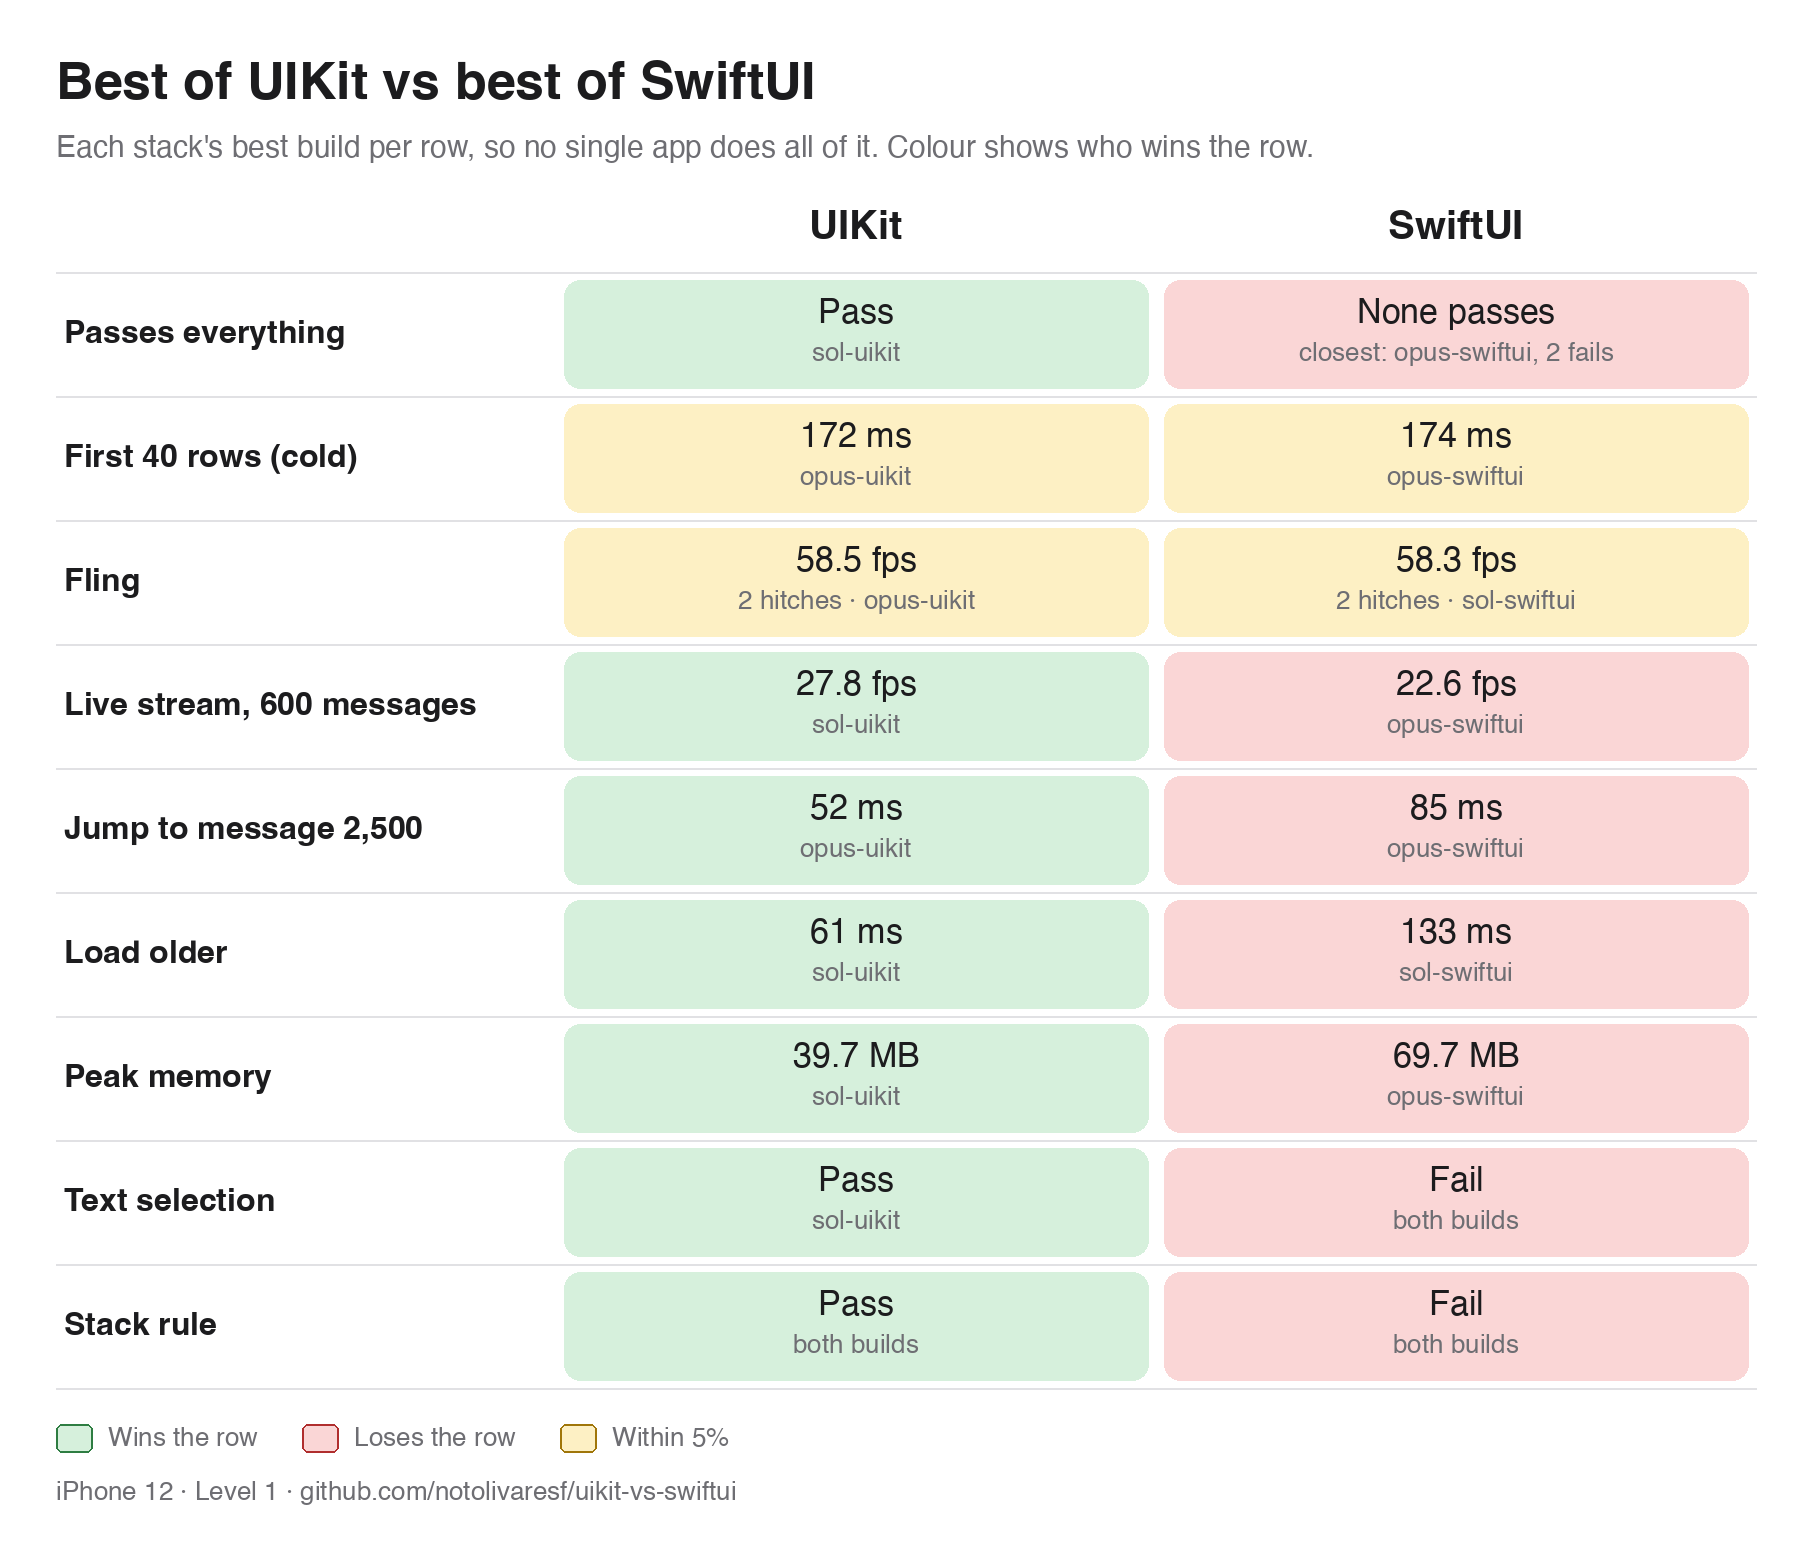
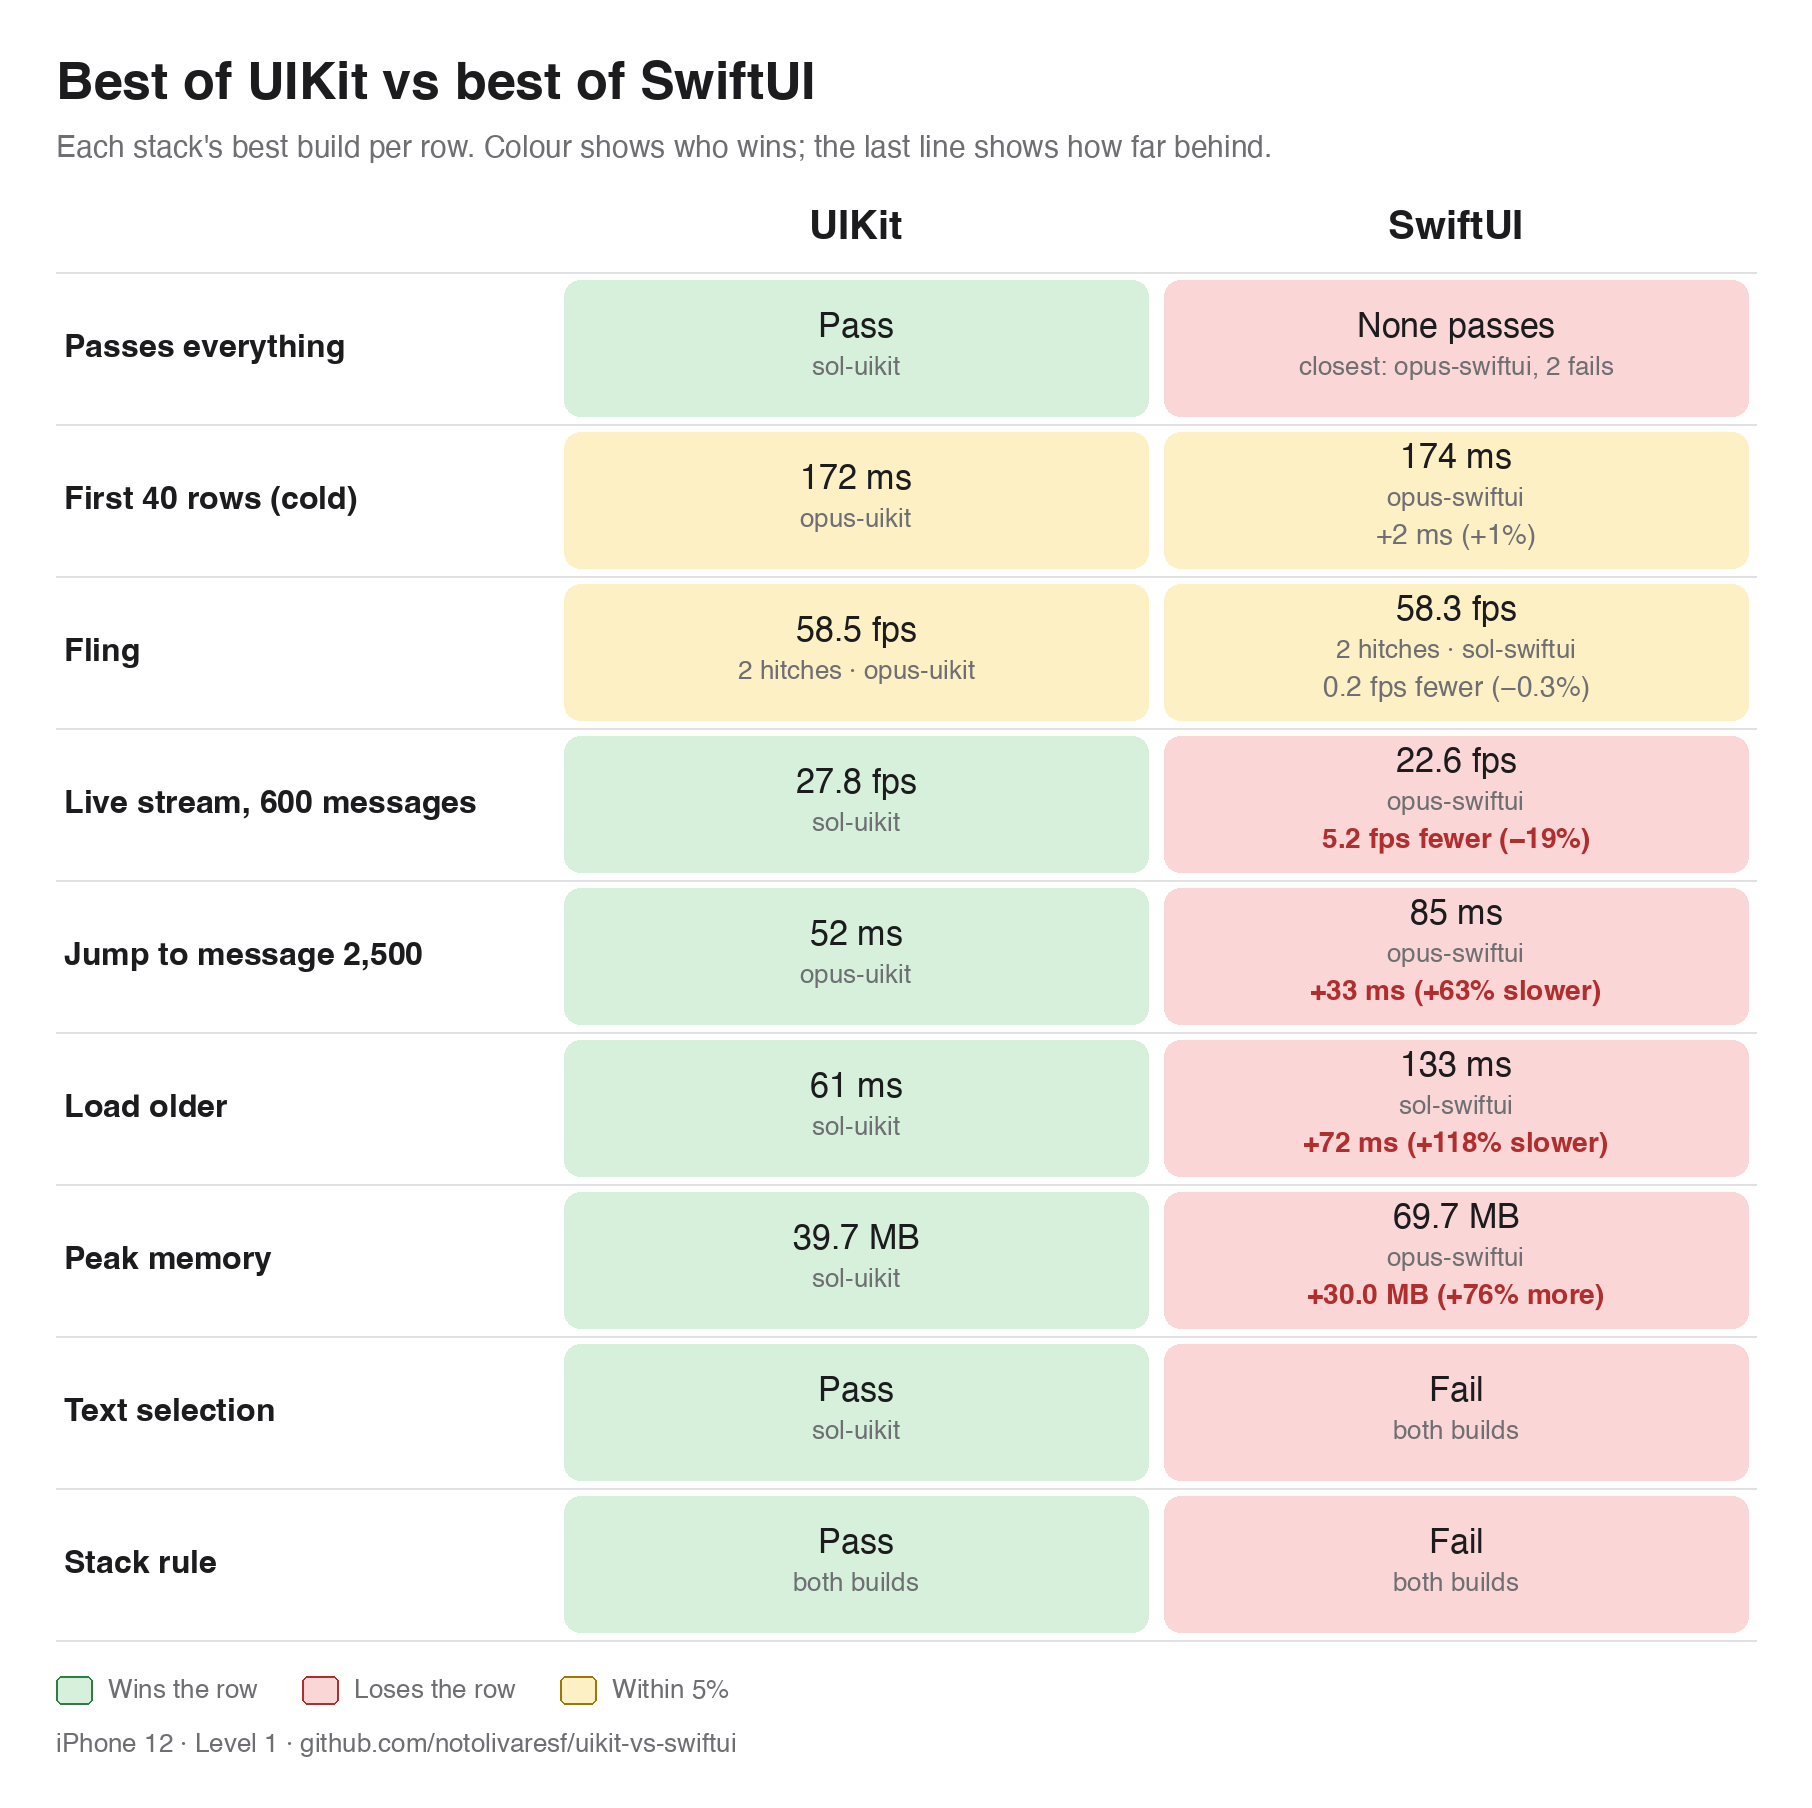
README: best-of table shows how far behind each trailing cell is (raw and percent)

diff --git a/Harness/tools/results_table.py b/Harness/tools/results_table.py
@@ -112,17 +112,36 @@ def best_rows():
             else:
                 rank = "bad"
             out_cells.append((rank, main, (extra + " \u00b7 " if extra else "") + who, False))
+        unit = {"fps": ("Fling", "Live stream, 600 messages"), "ms": ("First 40 rows (cold)", "Jump to message 2,500", "Load older"),
+                "MB": ("Peak memory",)}
+        u = next((k for k, v in unit.items() if label in v), None)
+        if u and su is not None and sw is not None and su != sw:
+            worse = 0 if su > sw else 1
+            vals = [num(out_cells[0][1]), num(out_cells[1][1])]
+            win, lose = vals[1 - worse], vals[worse]
+            diff = abs(lose - win)
+            pct = diff / win * 100
+            ptxt = ("%.0f" if pct >= 1 else "%.1f") % pct
+            red = out_cells[worse][0] == "bad"
+            if u == "fps":
+                txt = "%.1f fps fewer (\u2212%s%%)" % (diff, ptxt)
+            elif u == "ms":
+                txt = "+%.0f ms (+%s%%%s)" % (diff, ptxt, " slower" if red else "")
+            else:
+                txt = "+%.1f MB (+%s%%%s)" % (diff, ptxt, " more" if red else "")
+            c = out_cells[worse]
+            out_cells[worse] = (c[0], c[1], c[2], (txt, c[0]))
         out.append((label, out_cells))
     return out
 
 
 BEST = dict(title="Best of UIKit vs best of SwiftUI",
-            subtitle="Each stack's best build per row, so no single app does all of it. Colour shows who wins the row.",
-            builds=[("UIKit", ""), ("SwiftUI", "")], rows=best_rows(), col_w=300, file="results-best", groups=None,
+            subtitle="Each stack's best build per row. Colour shows who wins; the last line shows how far behind.",
+            builds=[("UIKit", ""), ("SwiftUI", "")], rows=best_rows(), col_w=300, file="results-best", groups=None, row_h=76,
             legend=[("ok", "Wins the row"), ("bad", "Loses the row"), ("warn", "Within 5%")])
 
 S = 2  # scale
-LABEL_W, COL_W, ROW_H, HEAD_H, GROUP_H = 250, 220, 62, 44, 36
+LABEL_W, COL_W, ROW_H, HEAD_H, GROUP_H = 250, 220, 62, 44, 36  # ROW_H is the default; a spec can set row_h
 PAD = 28
 
 
@@ -150,6 +169,7 @@ def render(name, spec=None):
     spec = spec or FULL
     th = THEMES[name]
     BUILDS, ROWS, COL_W = spec["builds"], spec["rows"], spec["col_w"]
+    ROW_H = spec.get("row_h", 62)
     groups = spec["groups"]
     group_h = GROUP_H if groups else 0
     W = PAD * 2 + LABEL_W + COL_W * len(BUILDS)
@@ -181,6 +201,8 @@ def render(name, spec=None):
     for label, cells in ROWS:
         d.text(((x0 + 4) * S, (y + ROW_H / 2) * S), label, font=font(16, True), fill=th["text"], anchor="lm")
         for i, (state, main, sub, best) in enumerate(cells):
+            delta = best if isinstance(best, tuple) else None
+            best = best is True
             bgc, fg = th[state]
             cx0 = x0 + LABEL_W + COL_W * i + 4
             r = [cx0 * S, (y + 4) * S, (cx0 + COL_W - 8) * S, (y + ROW_H - 4) * S]
@@ -193,13 +215,19 @@ def render(name, spec=None):
             cx = cx0 + (COL_W - 8) / 2
             mf = font(17, best)
             lines = wrap(d, main, mf, COL_W - 28)
-            n = len(lines) + (1 if sub else 0)
+            n = len(lines) + (1 if sub else 0) + (1 if delta else 0)
             lh = 21
             ty = y + ROW_H / 2 - (n - 1) * lh / 2
             for ln in lines:
                 centered(d, cx, ty, ln, mf, th["text"]); ty += lh
             if sub:
                 centered(d, cx, ty - 1, sub, font(13), th["muted"])
+                ty += lh - 3
+            if delta:
+                if delta[1] == "bad":
+                    centered(d, cx, ty, delta[0], font(14, True), th["bad"][1])
+                else:
+                    centered(d, cx, ty, delta[0], font(14), th["muted"])
         y += ROW_H
         d.line([(x0 * S, y * S), ((W - PAD) * S, y * S)], fill=th["line"], width=S)
     # legend

diff --git a/README.md b/README.md
@@ -36,7 +36,7 @@ Level 1, iPhone 12, one round per build. Green = pass, red = fail, yellow = not 
 
 ### Best of UIKit vs best of SwiftUI
 
-Each stack's best build per row (the build it came from is the grey line), so no single app does all of it. Green wins the row, red loses it, yellow means the two are within 5% of each other (a near tie). For pass/fail rows, a pass is green and a fail is red; if both stacks match, both are yellow. Lower is better for times and memory, higher for fps.
+Each stack's best build per row (the build it came from is the grey line), so no single app does all of it. Green wins the row, red loses it, yellow means the two are within 5% of each other (a near tie). For pass/fail rows, a pass is green and a fail is red; if both stacks match, both are yellow. Lower is better for times and memory, higher for fps. The trailing cell of a numeric row also says how far behind it is, as a raw difference and a percentage of the leader (grey for near ties, bold red for losses).
 
 <picture>
   <source media="(prefers-color-scheme: dark)" srcset="docs/images/results-best-dark.png">
@@ -48,12 +48,12 @@ Each stack's best build per row (the build it came from is the grey line), so no
 | | UIKit (best build) | SwiftUI (best build) |
 |---|---|---|
 | **Passes everything** | Wins: Pass (sol-uikit) | Loses: None passes (closest: opus-swiftui, 2 fails) |
-| **First 40 rows (cold)** | Within 5%: 172 ms (opus-uikit) | Within 5%: 174 ms (opus-swiftui) |
-| **Fling** | Within 5%: 58.5 fps, 2 hitches (opus-uikit) | Within 5%: 58.3 fps, 2 hitches (sol-swiftui) |
-| **Live stream, 600 messages** | Wins: 27.8 fps (sol-uikit) | Loses: 22.6 fps (opus-swiftui) |
-| **Jump to message 2,500** | Wins: 52 ms (opus-uikit) | Loses: 85 ms (opus-swiftui) |
-| **Load older** | Wins: 61 ms (sol-uikit) | Loses: 133 ms (sol-swiftui) |
-| **Peak memory** | Wins: 39.7 MB (sol-uikit) | Loses: 69.7 MB (opus-swiftui) |
+| **First 40 rows (cold)** | Within 5%: 172 ms (opus-uikit) | Within 5%: 174 ms (opus-swiftui), +2 ms (+1%) |
+| **Fling** | Within 5%: 58.5 fps, 2 hitches (opus-uikit) | Within 5%: 58.3 fps, 2 hitches (sol-swiftui), 0.2 fps fewer (−0.3%) |
+| **Live stream, 600 messages** | Wins: 27.8 fps (sol-uikit) | Loses: 22.6 fps (opus-swiftui), 5.2 fps fewer (−19%) |
+| **Jump to message 2,500** | Wins: 52 ms (opus-uikit) | Loses: 85 ms (opus-swiftui), +33 ms (+63% slower) |
+| **Load older** | Wins: 61 ms (sol-uikit) | Loses: 133 ms (sol-swiftui), +72 ms (+118% slower) |
+| **Peak memory** | Wins: 39.7 MB (sol-uikit) | Loses: 69.7 MB (opus-swiftui), +30.0 MB (+76% more) |
 | **Text selection** | Wins: Pass (sol-uikit) | Loses: Fail (both builds) |
 | **Stack rule** | Wins: Pass (both builds) | Loses: Fail (both builds) |
 
